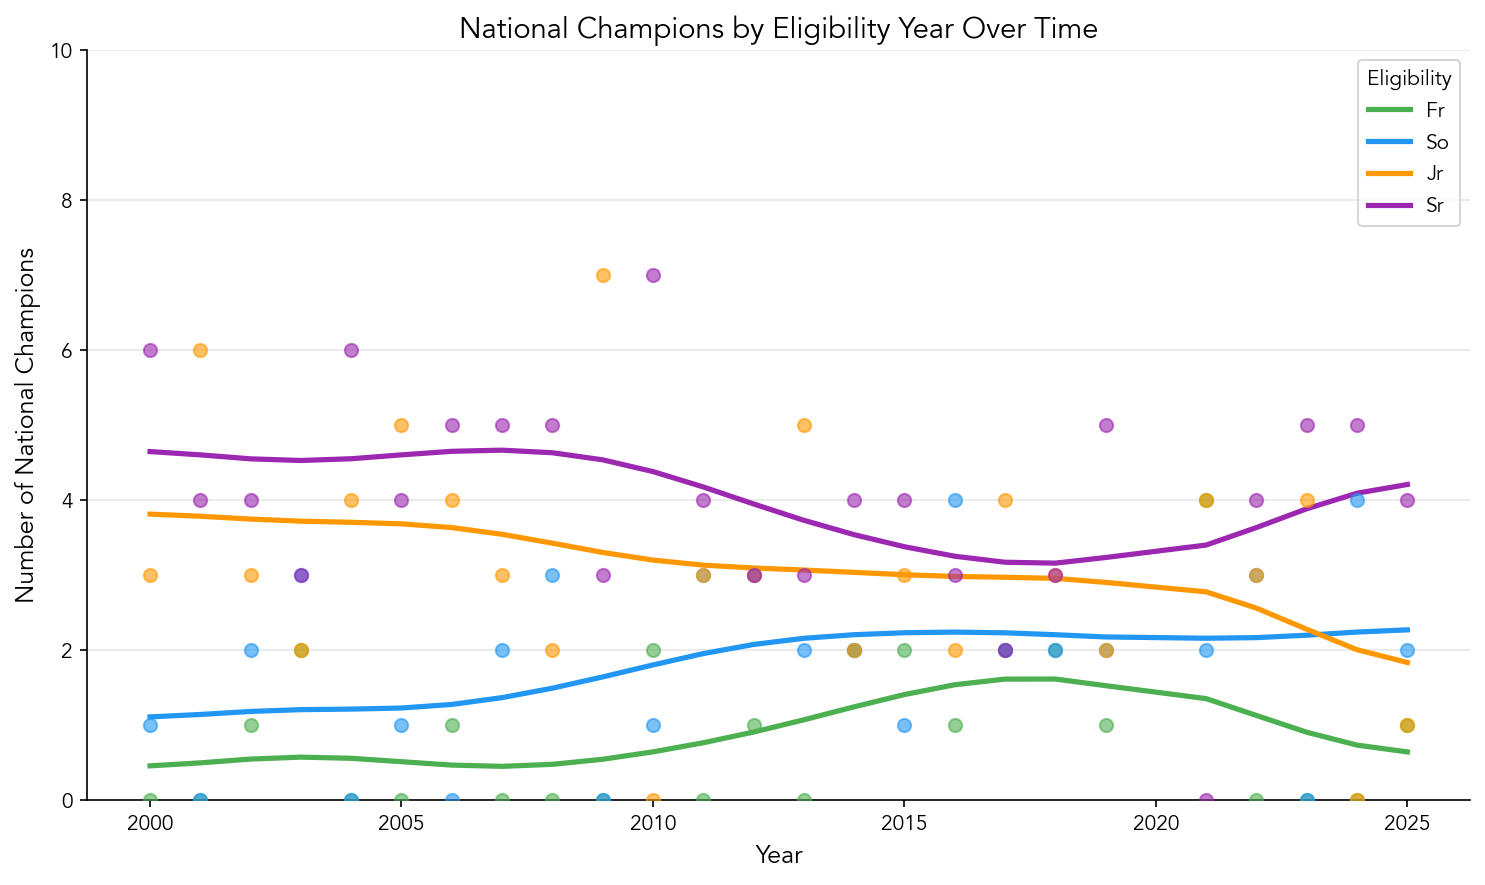
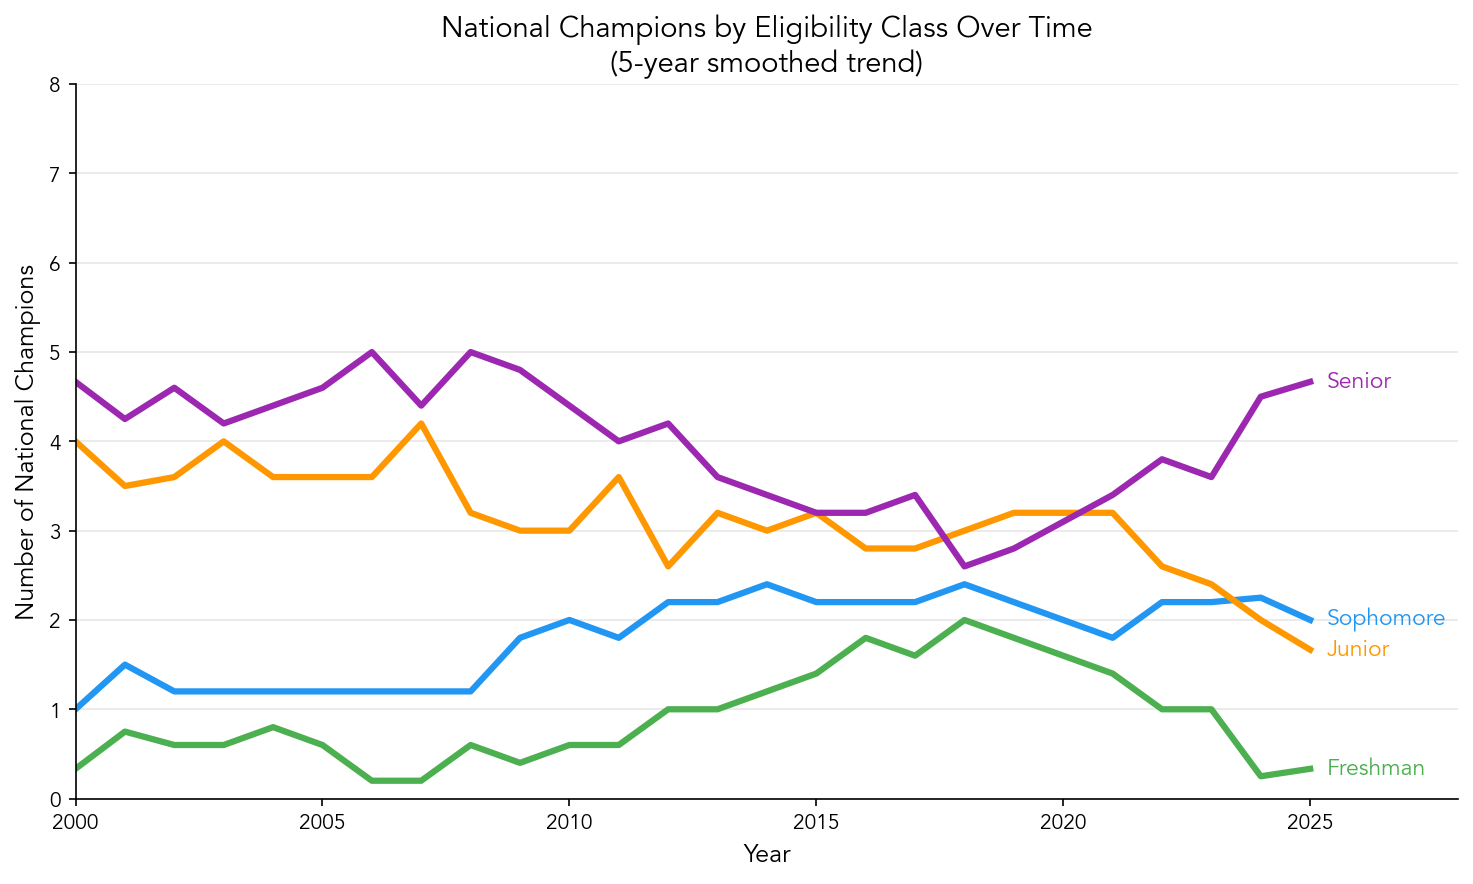
Redesign trend charts: smoothed lines with direct labels + small multiples for variability

diff --git a/notebooks/analysis.py b/notebooks/analysis.py
@@ -234,10 +234,8 @@ print(f"Saved: {chart_path}")
 print(f"Saved: {site_chart_path}")
 
 # ==============================================================================
-# CHART 3: All-Americans by Eligibility Year - Trend Over Time (Counts)
+# CHART 3: All-Americans Trend (Primary) - Smoothed Lines with Direct Labels
 # ==============================================================================
-
-from scipy.ndimage import gaussian_filter1d
 
 # Pivot: count of AAs by year and eligibility
 aa_by_year_elig = df.pivot_table(
@@ -247,42 +245,49 @@ aa_by_year_elig = df.pivot_table(
     fill_value=0
 )
 
-# Reorder columns (exclude SSr for cleaner main trend - too few data points)
+# Reorder columns (exclude SSr - too few data points)
 plot_order = [e for e in ["Fr", "So", "Jr", "Sr"] if e in aa_by_year_elig.columns]
 aa_counts = aa_by_year_elig[plot_order]
+
+# 5-year rolling mean for smoothing
+aa_smoothed = aa_counts.rolling(window=5, center=True, min_periods=1).mean()
+
+# Eligibility labels for direct annotation
+ELIG_LABELS = {"Fr": "Freshman", "So": "Sophomore", "Jr": "Junior", "Sr": "Senior"}
 
 fig, ax = plt.subplots(figsize=(10, 6))
 
 for elig in plot_order:
-    years = aa_counts.index.values
-    counts = aa_counts[elig].values
+    years = aa_smoothed.index.values
+    smoothed = aa_smoothed[elig].values
     
-    # Plot actual data points
-    ax.scatter(
-        years, 
-        counts,
-        color=ELIGIBILITY_COLORS.get(elig, "#888888"),
-        s=40,
-        alpha=0.6,
-        zorder=3
-    )
-    
-    # Plot smoothed trend line (Gaussian smoothing)
-    smoothed = gaussian_filter1d(counts.astype(float), sigma=2)
+    # Plot smoothed trend line only
     ax.plot(
         years, 
         smoothed,
         color=ELIGIBILITY_COLORS.get(elig, "#888888"),
-        linewidth=2.5,
-        label=elig,
-        zorder=2
+        linewidth=3,
+    )
+    
+    # Direct label at end of line
+    ax.annotate(
+        ELIG_LABELS[elig],
+        xy=(years[-1], smoothed[-1]),
+        xytext=(8, 0),
+        textcoords="offset points",
+        va="center",
+        ha="left",
+        fontsize=11,
+        fontweight="medium",
+        color=ELIGIBILITY_COLORS.get(elig, "#888888")
     )
 
 ax.set_xlabel("Year", fontsize=12)
 ax.set_ylabel("Number of All-Americans", fontsize=12)
-ax.set_title("All-Americans by Eligibility Year Over Time", fontsize=14, fontweight="bold")
-ax.legend(title="Eligibility", loc="upper right")
-ax.set_ylim(0, aa_counts.max().max() * 1.15)
+ax.set_title("All-Americans by Eligibility Class Over Time\n(5-year smoothed trend)", 
+             fontsize=14, fontweight="bold")
+ax.set_ylim(0, 45)
+ax.set_xlim(aa_smoothed.index.min(), aa_smoothed.index.max() + 3)  # Extra space for labels
 ax.spines["top"].set_visible(False)
 ax.spines["right"].set_visible(False)
 ax.grid(axis="y", alpha=0.3)
@@ -297,7 +302,57 @@ print(f"Saved: {chart_path}")
 print(f"Saved: {site_chart_path}")
 
 # ==============================================================================
-# CHART 4: National Champions by Eligibility Year - Trend Over Time (Counts)
+# CHART 4: All-Americans Variability (Secondary) - Small Multiples
+# ==============================================================================
+
+fig, axes = plt.subplots(2, 2, figsize=(10, 7), sharex=True, sharey=True)
+axes = axes.flatten()
+
+for idx, elig in enumerate(plot_order):
+    ax = axes[idx]
+    years = aa_counts.index.values
+    counts = aa_counts[elig].values
+    
+    # Thin line for raw yearly data
+    ax.plot(
+        years, 
+        counts,
+        color=ELIGIBILITY_COLORS.get(elig, "#888888"),
+        linewidth=1.5,
+        alpha=0.8
+    )
+    
+    # Fill under the line
+    ax.fill_between(
+        years, 
+        counts, 
+        alpha=0.2,
+        color=ELIGIBILITY_COLORS.get(elig, "#888888")
+    )
+    
+    ax.set_title(ELIG_LABELS[elig], fontsize=12, fontweight="medium",
+                 color=ELIGIBILITY_COLORS.get(elig, "#888888"))
+    ax.set_ylim(0, 45)
+    ax.spines["top"].set_visible(False)
+    ax.spines["right"].set_visible(False)
+    ax.grid(axis="y", alpha=0.3)
+
+# Common labels
+fig.supxlabel("Year", fontsize=12)
+fig.supylabel("Number of All-Americans", fontsize=12)
+fig.suptitle("All-Americans by Year: Variability by Class", fontsize=14, fontweight="bold", y=1.02)
+
+plt.tight_layout()
+chart_path = CHARTS_DIR / "aa_variability_by_eligibility.png"
+site_chart_path = SITE_CHARTS_DIR / "aa_variability_by_eligibility.png"
+plt.savefig(chart_path, dpi=150)
+plt.savefig(site_chart_path, dpi=150)
+plt.close()
+print(f"Saved: {chart_path}")
+print(f"Saved: {site_chart_path}")
+
+# ==============================================================================
+# CHART 5: National Champions Trend (Primary) - Smoothed Lines with Direct Labels
 # ==============================================================================
 
 # Pivot: count of NCs by year and eligibility
@@ -308,43 +363,46 @@ nc_by_year_elig = champions.pivot_table(
     fill_value=0
 )
 
-# Reorder columns (exclude SSr for cleaner main trend)
+# Reorder columns (exclude SSr)
 plot_order_nc = [e for e in ["Fr", "So", "Jr", "Sr"] if e in nc_by_year_elig.columns]
 nc_counts = nc_by_year_elig[plot_order_nc]
+
+# 5-year rolling mean for smoothing
+nc_smoothed = nc_counts.rolling(window=5, center=True, min_periods=1).mean()
 
 fig, ax = plt.subplots(figsize=(10, 6))
 
 for elig in plot_order_nc:
-    years = nc_counts.index.values
-    counts = nc_counts[elig].values
+    years = nc_smoothed.index.values
+    smoothed = nc_smoothed[elig].values
     
-    # Plot actual data points
-    ax.scatter(
-        years, 
-        counts,
-        color=ELIGIBILITY_COLORS.get(elig, "#888888"),
-        s=40,
-        alpha=0.6,
-        zorder=3
-    )
-    
-    # Plot smoothed trend line (Gaussian smoothing with higher sigma for noisy NC data)
-    smoothed = gaussian_filter1d(counts.astype(float), sigma=2.5)
+    # Plot smoothed trend line only
     ax.plot(
         years, 
         smoothed,
         color=ELIGIBILITY_COLORS.get(elig, "#888888"),
-        linewidth=2.5,
-        label=elig,
-        zorder=2
+        linewidth=3,
+    )
+    
+    # Direct label at end of line
+    ax.annotate(
+        ELIG_LABELS[elig],
+        xy=(years[-1], smoothed[-1]),
+        xytext=(8, 0),
+        textcoords="offset points",
+        va="center",
+        ha="left",
+        fontsize=11,
+        fontweight="medium",
+        color=ELIGIBILITY_COLORS.get(elig, "#888888")
     )
 
 ax.set_xlabel("Year", fontsize=12)
 ax.set_ylabel("Number of National Champions", fontsize=12)
-ax.set_title("National Champions by Eligibility Year Over Time", fontsize=14, fontweight="bold")
-ax.legend(title="Eligibility", loc="upper right")
-ax.set_ylim(0, 10)
-ax.set_yticks(range(0, 11, 2))
+ax.set_title("National Champions by Eligibility Class Over Time\n(5-year smoothed trend)", 
+             fontsize=14, fontweight="bold")
+ax.set_ylim(0, 8)
+ax.set_xlim(nc_smoothed.index.min(), nc_smoothed.index.max() + 3)  # Extra space for labels
 ax.spines["top"].set_visible(False)
 ax.spines["right"].set_visible(False)
 ax.grid(axis="y", alpha=0.3)
@@ -352,6 +410,56 @@ ax.grid(axis="y", alpha=0.3)
 plt.tight_layout()
 chart_path = CHARTS_DIR / "nc_trend_by_eligibility.png"
 site_chart_path = SITE_CHARTS_DIR / "nc_trend_by_eligibility.png"
+plt.savefig(chart_path, dpi=150)
+plt.savefig(site_chart_path, dpi=150)
+plt.close()
+print(f"Saved: {chart_path}")
+print(f"Saved: {site_chart_path}")
+
+# ==============================================================================
+# CHART 6: National Champions Variability (Secondary) - Small Multiples
+# ==============================================================================
+
+fig, axes = plt.subplots(2, 2, figsize=(10, 7), sharex=True, sharey=True)
+axes = axes.flatten()
+
+for idx, elig in enumerate(plot_order_nc):
+    ax = axes[idx]
+    years = nc_counts.index.values
+    counts = nc_counts[elig].values
+    
+    # Thin line for raw yearly data
+    ax.plot(
+        years, 
+        counts,
+        color=ELIGIBILITY_COLORS.get(elig, "#888888"),
+        linewidth=1.5,
+        alpha=0.8
+    )
+    
+    # Fill under the line
+    ax.fill_between(
+        years, 
+        counts, 
+        alpha=0.2,
+        color=ELIGIBILITY_COLORS.get(elig, "#888888")
+    )
+    
+    ax.set_title(ELIG_LABELS[elig], fontsize=12, fontweight="medium",
+                 color=ELIGIBILITY_COLORS.get(elig, "#888888"))
+    ax.set_ylim(0, 10)
+    ax.spines["top"].set_visible(False)
+    ax.spines["right"].set_visible(False)
+    ax.grid(axis="y", alpha=0.3)
+
+# Common labels
+fig.supxlabel("Year", fontsize=12)
+fig.supylabel("Number of National Champions", fontsize=12)
+fig.suptitle("National Champions by Year: Variability by Class", fontsize=14, fontweight="bold", y=1.02)
+
+plt.tight_layout()
+chart_path = CHARTS_DIR / "nc_variability_by_eligibility.png"
+site_chart_path = SITE_CHARTS_DIR / "nc_variability_by_eligibility.png"
 plt.savefig(chart_path, dpi=150)
 plt.savefig(site_chart_path, dpi=150)
 plt.close()

diff --git a/docs/report.md b/docs/report.md
@@ -60,15 +60,25 @@ Has the eligibility distribution changed over 25 years? These charts show how ea
 ### All-Americans Trend
 
 <figure>
-<img src="{{ site.baseurl }}/charts/aa_trend_by_eligibility.png" alt="Line chart showing All-Americans by eligibility year over time">
-<figcaption>All-American counts by eligibility class, 2000–2025. Dots show actual yearly counts; lines are smoothed trends.</figcaption>
+<img src="{{ site.baseurl }}/charts/aa_trend_by_eligibility.png" alt="Smoothed trend lines showing All-Americans by eligibility year over time">
+<figcaption>Five-year smoothed trend in All-Americans by eligibility class, 2000–2025.</figcaption>
+</figure>
+
+<figure>
+<img src="{{ site.baseurl }}/charts/aa_variability_by_eligibility.png" alt="Small multiples showing yearly All-American counts by eligibility class">
+<figcaption>Year-to-year variability in All-Americans by class. Each panel shows the raw yearly counts.</figcaption>
 </figure>
 
 ### National Champions Trend
 
 <figure>
-<img src="{{ site.baseurl }}/charts/nc_trend_by_eligibility.png" alt="Line chart showing National Champions by eligibility year over time">
-<figcaption>National Champion counts by eligibility class, 2000–2025. Dots show actual yearly counts; lines are smoothed trends.</figcaption>
+<img src="{{ site.baseurl }}/charts/nc_trend_by_eligibility.png" alt="Smoothed trend lines showing National Champions by eligibility year over time">
+<figcaption>Five-year smoothed trend in National Champions by eligibility class, 2000–2025.</figcaption>
+</figure>
+
+<figure>
+<img src="{{ site.baseurl }}/charts/nc_variability_by_eligibility.png" alt="Small multiples showing yearly National Champion counts by eligibility class">
+<figcaption>Year-to-year variability in National Champions by class. With only 10 titles per year, individual years are noisy.</figcaption>
 </figure>
 
 ## Methodology
